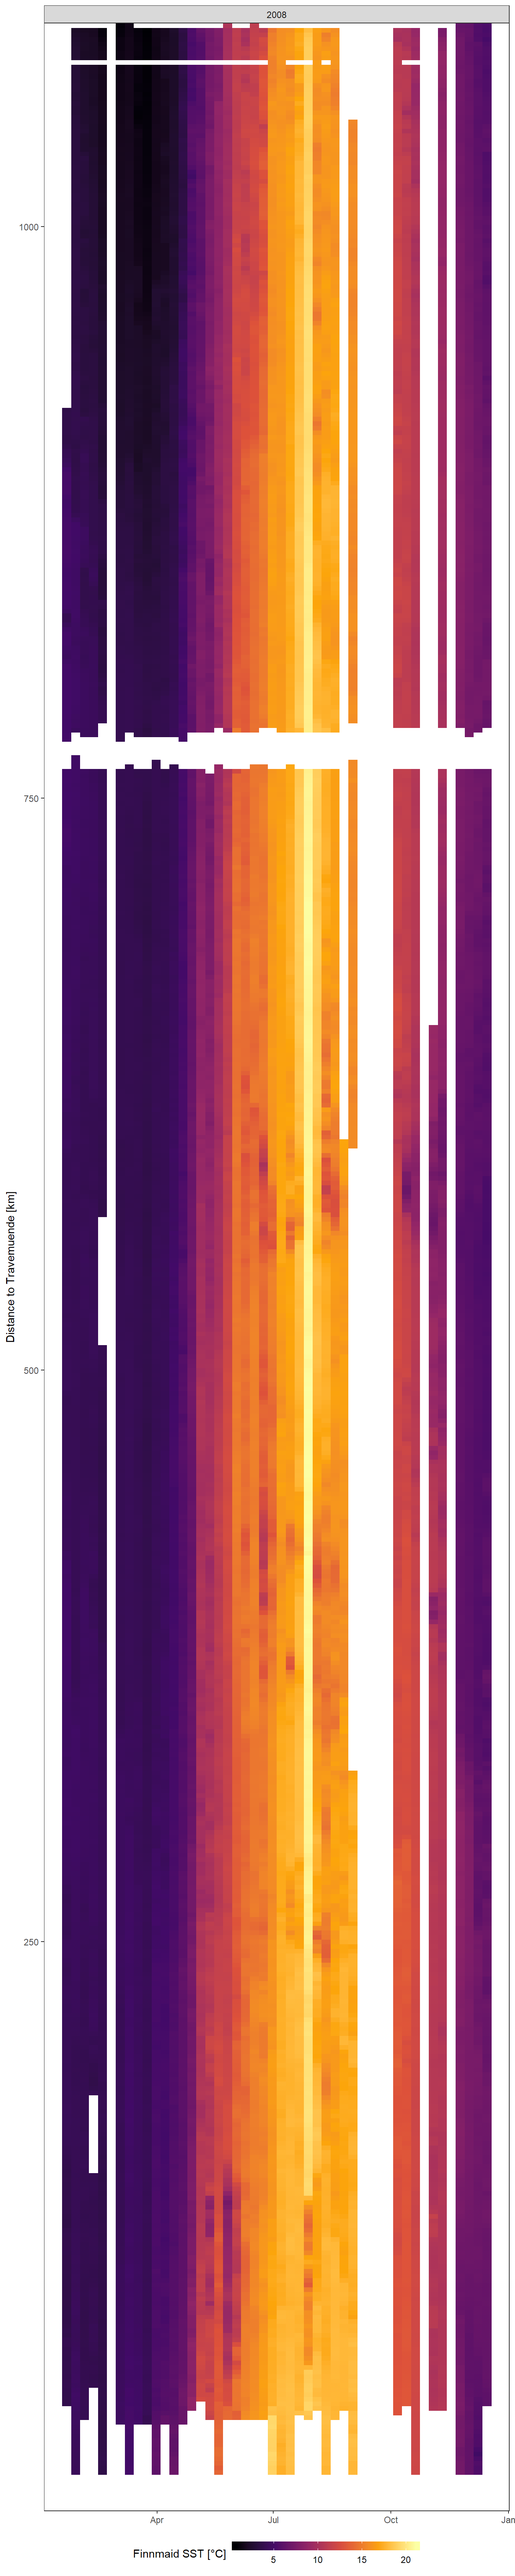
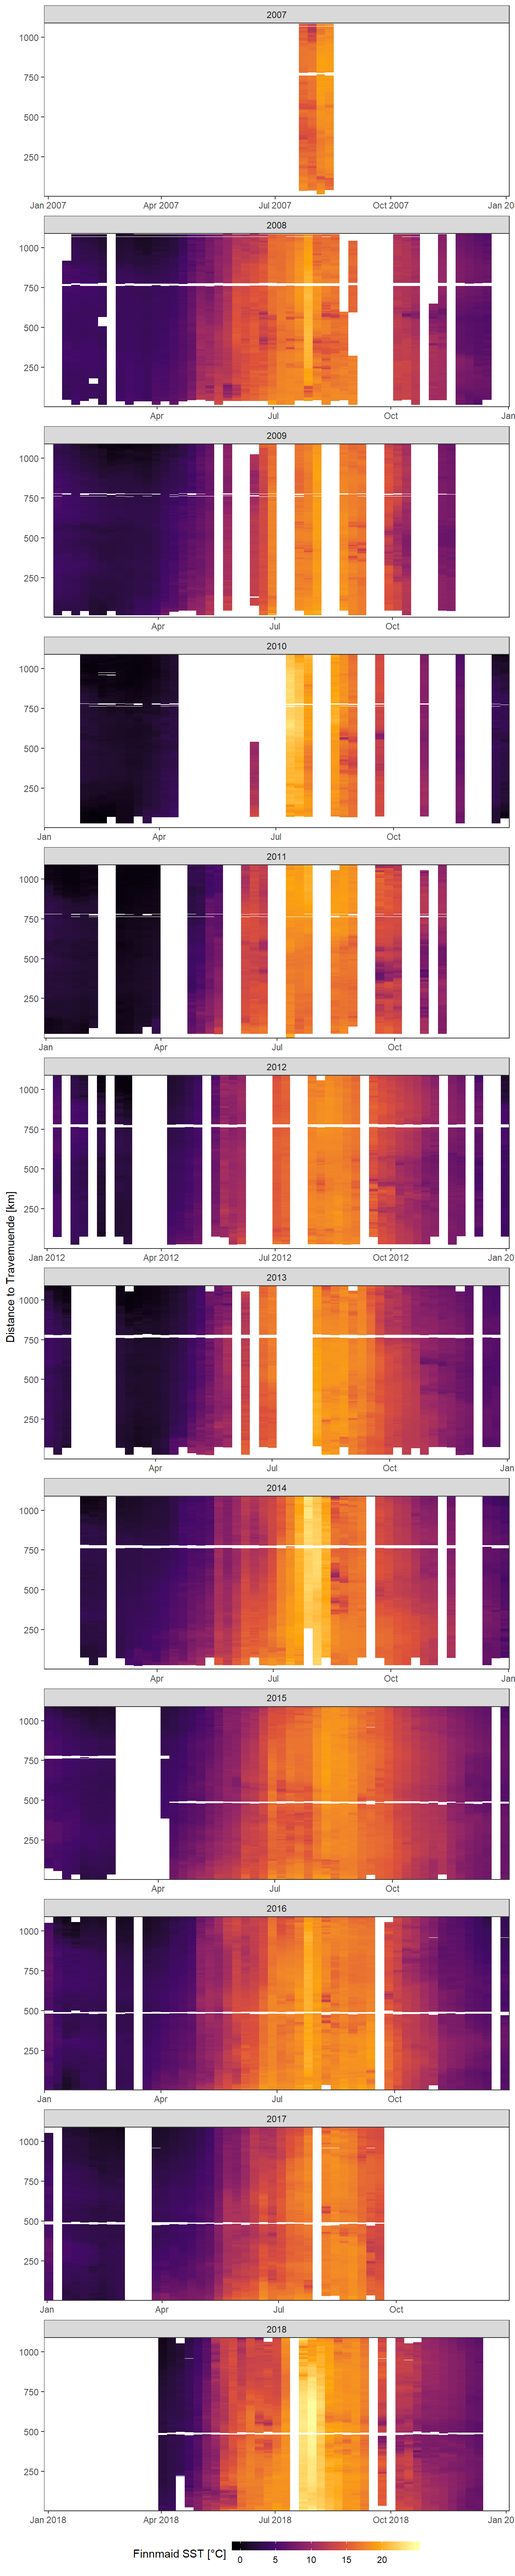
Build site.

diff --git a/docs/Finnmaid-GETM.html b/docs/Finnmaid-GETM.html
@@ -416,7 +416,7 @@ div.section {
 
 <h1 class="title toc-ignore">Finnmaid-GETM</h1>
 <h4 class="author">Jens Daniel Müller &amp; Lara Burchardt</h4>
-<h4 class="date">18 January, 2020</h4>
+<h4 class="date">19 January, 2020</h4>
 
 </div>
 
@@ -441,7 +441,7 @@ div.section {
 <div class="tab-content">
 <div id="summary" class="tab-pane fade in active">
 <p>
-<strong>Last updated:</strong> 2020-01-18
+<strong>Last updated:</strong> 2020-01-19
 </p>
 <p>
 <strong>Checks:</strong> <span class="glyphicon glyphicon-ok text-success" aria-hidden="true"></span> 7 <span class="glyphicon glyphicon-exclamation-sign text-danger" aria-hidden="true"></span> 0
@@ -532,10 +532,10 @@ This reproducible <a href="http://rmarkdown.rstudio.com">R Markdown</a> analysis
 <div class="panel panel-default">
 <div class="panel-heading">
 <p class="panel-title">
-<a data-toggle="collapse" data-parent="#workflowr-checks" href="#strongRepositoryversionstrongahrefhttpsgithubcomjensdanielmuellerBalticProductivitytreec316aed109476888e7cba7ae3807aa24bfe00441targetblankc316aeda"> <span class="glyphicon glyphicon-ok text-success" aria-hidden="true"></span> <strong>Repository version:</strong> <a href="https://github.com/jens-daniel-mueller/Baltic_Productivity/tree/c316aed109476888e7cba7ae3807aa24bfe00441" target="_blank">c316aed</a> </a>
+<a data-toggle="collapse" data-parent="#workflowr-checks" href="#strongRepositoryversionstrongahrefhttpsgithubcomjensdanielmuellerBalticProductivitytree8861cf7ac2d39077bd194df5a950ea93f72c48b4targetblank8861cf7a"> <span class="glyphicon glyphicon-ok text-success" aria-hidden="true"></span> <strong>Repository version:</strong> <a href="https://github.com/jens-daniel-mueller/Baltic_Productivity/tree/8861cf7ac2d39077bd194df5a950ea93f72c48b4" target="_blank">8861cf7</a> </a>
 </p>
 </div>
[2 lines of base64/hex data omitted]
 <div class="panel-body">
 <p>
 Great! You are using Git for version control. Tracking code development and connecting the code version to the results is critical for reproducibility. The version displayed above was the version of the Git repository at the time these results were generated. <br><br> Note that you need to be careful to ensure that all relevant files for the analysis have been committed to Git prior to generating the results (you can use <code>wflow_publish</code> or <code>wflow_git_commit</code>). workflowr only checks the R Markdown file, but you know if there are other scripts or data files that it depends on. Below is the status of the Git repository when the results were generated:
@@ -550,6 +550,9 @@ Ignored files:
     Ignored:    data/OSTIA/
     Ignored:    data/_merged_data_files/
     Ignored:    data/_summarized_data_files/
+
+Unstaged changes:
+    Deleted:    analysis/child_mld_GETM.Rmd
 
 </code></pre>
 <p>
@@ -1126,7 +1129,7 @@ comparison_hov_data &lt;- comparison_hov_data %&gt;%
          week = as.Date(week))
 
 comparison_hov_data %&gt;%
-  filter(year &gt; 2007, year &lt; 2009) %&gt;% 
+  filter(year &gt; 2006, year &lt; 2019) %&gt;% 
     ggplot()+
     geom_raster(aes(week, dist.trav, fill=value_SST_Finn_mean))+
     #scale_fill_scico(palette = &quot;vik&quot;, name=&quot;mean difference in SST [°C]&quot;)+
@@ -1457,8 +1460,8 @@ ts_xts %&gt;%
 <p>The dataset for the regional analysis of mixed layer depths and pCO2 were written such, that already the complete information was calculated for the GETM data.</p>
 </div>
 <div id="finnmaid-pco2-1" class="section level2">
-<h2><span class="header-section-number">6.2</span> Finnmaid pCO2</h2>
-<p>The pCO2 measurments are also to be analysed for the whole basin next. Same as for the SST analysis, the route is divided in 2 km grids (startpoint Travemuende). That results in 544 coordinate points in every transect. The corresponding coordinate number (1:544) is added to the dataset, with the exact longitude and lattitude coordinates.</p>
+<h2><span class="header-section-number">6.2</span> Finnmaid pCO<sub>2</sub></h2>
+<p>The pCO<sub>2</sub> measurments are also to be analysed for the whole basin next. Same as for the SST analysis, the route is divided in 2 km grids (startpoint Travemuende). That results in 544 coordinate points in every transect. The corresponding coordinate number (1:544) is added to the dataset, with the exact longitude and lattitude coordinates.</p>
 <pre class="r"><code>#Prepare data for Hovmoeller Plot
 
 
@@ -1580,9 +1583,11 @@ ts_mld_pco2_full &lt;- full_join(ts_pCO2, ts_mld, by =c(&quot;date&quot;,&quot;c
 
 ts_mld_pco2_full %&gt;% 
 write_csv(here::here(&quot;data/_merged_data_files/&quot;, file = &quot;Finnmaid_GETM_pCO2_mld_nolatrestrictions.csv&quot;))</code></pre>
-<p>##Hovmoeller Plots</p>
+</div>
+<div id="hovmoeller-plots-1" class="section level2">
+<h2><span class="header-section-number">6.4</span> Hovmoeller Plots</h2>
 <div id="daily-getm-mld" class="section level3">
-<h3><span class="header-section-number">6.3.1</span> Daily GETM mld</h3>
+<h3><span class="header-section-number">6.4.1</span> Daily GETM mld</h3>
 <p>We present Hovmoeller Plots for the 5 mixed layer depth parameters (see 5.1). The daily GETM mld values are presented as a function of time and the ships distance to Travemuende along route E. Plots are shown seperatly for each parameter and years.</p>
 <p>This timeseries represents mixed layer depth values for the parameter <code>mld_age_1</code> from 2007 to 2019.</p>
 <pre class="r"><code>ts_mld_pco2_full &lt;- 
@@ -1786,7 +1791,7 @@ Mean weekly observed (Finnmaid) pCO2 as a function of time and the ships distanc
 </div>
 </div>
 <div id="comparison-pco2-and-mld-age-5" class="section level3">
-<h3><span class="header-section-number">6.3.2</span> Comparison pCO2 and mld age 5</h3>
+<h3><span class="header-section-number">6.4.2</span> Comparison pCO2 and mld age 5</h3>
 <pre class="r"><code># ts_mld_pco2_full &lt;- 
 #   read_csv(here::here(&quot;data/_merged_data_files/&quot;, file = &quot;Finnmaid_GETM_pCO2_mld_nolatrestrictions.csv&quot;), guess_max = 105537)
 # why guess_max so high? because the first 105536 rows of mld values are empty and when opening are interpreted as factors, which results in a parsing error
@@ -1923,14 +1928,20 @@ write_csv(here::here(&quot;data/_summarized_data_files/&quot;, file = &quot;Finn
 
 
 rm(monthly_salinity, temp, finnmaid_sss_corvector, timeseries)</code></pre>
-<pre class="r"><code>monthly_salinity &lt;- read_csv(here::here(&quot;data/_summarized_data_files&quot;, file = &quot;Finnmaid_monthly_Salinity_perTransect_short.csv&quot;))
+<pre class="r"><code>monthly_salinity &lt;- read_csv(
+  here::here(&quot;data/_summarized_data_files&quot;,
+             &quot;Finnmaid_monthly_Salinity_perTransect_short.csv&quot;))
 
-monthly_salinity$month &lt;- as.factor(monthly_salinity$month)
+monthly_salinity &lt;- monthly_salinity %&gt;% 
+  mutate(month = as.factor(month),
+         dist.trav = corvector * 2)
 
 monthly_salinity %&gt;% 
-ggplot(aes(corvector,sss, color = month))+
+  ggplot(aes(dist.trav, sss, color = month))+
   geom_path()+
-  scale_color_discrete()</code></pre>
+  labs(x=&quot;Distance to Travemuende [km]&quot;,
+       y=&quot;Surface Salinity&quot;)+
+  theme_bw()</code></pre>
 <p><img src="figure/Finnmaid-GETM.Rmd/scatterplot_salinity-1.png" width="672" style="display: block; margin: auto;" /></p>
 </div>
 <div id="open-tasks" class="section level1">

diff --git a/docs/index.html b/docs/index.html
@@ -1,11 +1,10 @@
 <!DOCTYPE html>
 
-<html xmlns="http://www.w3.org/1999/xhtml">
+<html>
 
 <head>
 
 <meta charset="utf-8" />
-<meta http-equiv="Content-Type" content="text/html; charset=utf-8" />
 <meta name="generator" content="pandoc" />
 <meta http-equiv="X-UA-Compatible" content="IE=EDGE" />
 
@@ -235,6 +234,7 @@ $(document).ready(function () {
   border: none;
   display: inline-block;
   border-radius: 4px;
+  background-color: transparent;
 }
 
 .tabset-dropdown > .nav-tabs.nav-tabs-open > li {
@@ -348,7 +348,7 @@ div.section {
 <div class="tab-content">
 <div id="summary" class="tab-pane fade in active">
 <p>
-<strong>Last updated:</strong> 2019-11-26
+<strong>Last updated:</strong> 2020-01-19
 </p>
 <p>
 <strong>Checks:</strong> <span class="glyphicon glyphicon-ok text-success" aria-hidden="true"></span> 2 <span class="glyphicon glyphicon-exclamation-sign text-danger" aria-hidden="true"></span> 0
@@ -358,7 +358,7 @@ div.section {
 </p>
 <p>
 This reproducible <a href="http://rmarkdown.rstudio.com">R Markdown</a> analysis was created with <a
-  href="https://github.com/jdblischak/workflowr">workflowr</a> (version 1.5.0). The <em>Checks</em> tab describes the reproducibility checks that were applied when the results were created. The <em>Past versions</em> tab lists the development history.
+  href="https://github.com/jdblischak/workflowr">workflowr</a> (version 1.6.0). The <em>Checks</em> tab describes the reproducibility checks that were applied when the results were created. The <em>Past versions</em> tab lists the development history.
 </p>
 <hr>
 </div>
@@ -379,10 +379,10 @@ This reproducible <a href="http://rmarkdown.rstudio.com">R Markdown</a> analysis
 <div class="panel panel-default">
 <div class="panel-heading">
 <p class="panel-title">
-<a data-toggle="collapse" data-parent="#workflowr-checks" href="#strongRepositoryversionstrongahrefhttpsgithubcomjensdanielmuellerBalticProductivitytree51e705cf8cd6b104ce40271af56abe33ccc809eatargetblank51e705ca"> <span class="glyphicon glyphicon-ok text-success" aria-hidden="true"></span> <strong>Repository version:</strong> <a href="https://github.com/jens-daniel-mueller/Baltic_Productivity/tree/51e705cf8cd6b104ce40271af56abe33ccc809ea" target="_blank">51e705c</a> </a>
+<a data-toggle="collapse" data-parent="#workflowr-checks" href="#strongRepositoryversionstrongahrefhttpsgithubcomjensdanielmuellerBalticProductivitytree8861cf7ac2d39077bd194df5a950ea93f72c48b4targetblank8861cf7a"> <span class="glyphicon glyphicon-ok text-success" aria-hidden="true"></span> <strong>Repository version:</strong> <a href="https://github.com/jens-daniel-mueller/Baltic_Productivity/tree/8861cf7ac2d39077bd194df5a950ea93f72c48b4" target="_blank">8861cf7</a> </a>
 </p>
 </div>
[2 lines of base64/hex data omitted]
 <div class="panel-body">
 <p>
 Great! You are using Git for version control. Tracking code development and connecting the code version to the results is critical for reproducibility. The version displayed above was the version of the Git repository at the time these results were generated. <br><br> Note that you need to be careful to ensure that all relevant files for the analysis have been committed to Git prior to generating the results (you can use <code>wflow_publish</code> or <code>wflow_git_commit</code>). workflowr only checks the R Markdown file, but you know if there are other scripts or data files that it depends on. Below is the status of the Git repository when the results were generated:
@@ -391,10 +391,15 @@ Great! You are using Git for version control. Tracking code development and conn
 Ignored files:
     Ignored:    .Rhistory
     Ignored:    .Rproj.user/
+    Ignored:    data/ARGO/
     Ignored:    data/Finnmaid/
     Ignored:    data/GETM/
+    Ignored:    data/OSTIA/
     Ignored:    data/_merged_data_files/
     Ignored:    data/_summarized_data_files/
+
+Unstaged changes:
+    Deleted:    analysis/child_mld_GETM.Rmd
 
 </code></pre>
 <p>
